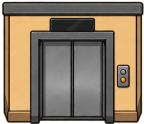
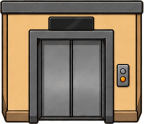
feat(sim): everybody arrives by elevator — hidden arrival queue, one car per newcomer (doors held open from the sim, step out, walk off), postman included; furniture frame sequences equalise each frame's silhouette so the closed elevator no longer jumps; tick moved to tick.ts

diff --git a/packages/sim/src/world.ts b/packages/sim/src/world.ts
@@ -1,7 +1,6 @@
 import type { AgentId } from "@ho/protocol";
 import { type Facing, type Grid, type Point, samePoint } from "./grid.ts";
 import { createRng, hashSeed, type Rng } from "./rng.ts";
-import { advanceStep } from "./steps.ts";
 import { type Anchor, type AnchorKind, type FloorTemplate, gridFor } from "./templates.ts";
 
 export type Activity =
@@ -70,16 +69,27 @@ export type Actor = {
 
 export type Floor = { template: FloorTemplate; grid: Grid; reservations: Map<string, AgentId> };
 
+/**
+ * Everybody enters by elevator: spawned actors wait hidden in the car and step out one at a time. `carAt` is
+ * when the arriving car's doors are fully open (0 while no car is called), `nextAt` when the next car may come.
+ */
+export type Arrivals = { queue: AgentId[]; carAt: number; nextAt: number };
+
 export type World = {
   time: number;
   rng: Rng;
   floors: Map<string, Floor>;
   actors: Map<AgentId, Actor>;
   outbox: SimEvent[];
+  arrivals: Arrivals;
+  /** Proximity animations the simulation holds open, by sprite key (`elevator` while a car is arriving). */
+  held: Set<string>;
 };
 
 export const SPEED_TILES_PER_S = 3;
 export const ELEVATOR_MS = 1500;
+/** Door travel of the elevator (matches the renderer), the pause on the threshold, the gap between cars. */
+export const ELEVATOR_DOORS_MS = 700;
 
 export const createWorld = (seed: string): World => ({
   time: 0,
@@ -87,6 +97,8 @@ export const createWorld = (seed: string): World => ({
   floors: new Map(),
   actors: new Map(),
   outbox: [],
+  arrivals: { queue: [], carAt: 0, nextAt: 0 },
+  held: new Set(),
 });
 
 export function addFloor(world: World, template: FloorTemplate): void {
@@ -139,6 +151,8 @@ export function spawnActor(
       ? { x: 3, y: 10 }
       : (anchorById(floor, "elevator")?.at ?? { x: 3, y: 10 }));
   const at = nearestWalkable(world, floorId, spawn);
+  // Without an explicit place the newcomer arrives by elevator: hidden in the car until it is their turn.
+  const arriving = options.at === undefined;
   const actor: Actor = {
     id,
     kind: options.kind ?? "agent",
@@ -149,7 +163,7 @@ export function spawnActor(
     facing: "s",
     activity: "idle",
     animTime: 0,
-    hidden: false,
+    hidden: arriving,
     steps: [],
     reservation: null,
     work: null,
@@ -163,6 +177,9 @@ export function spawnActor(
     idleUntil: 0,
   };
   world.actors.set(id, actor);
+  if (arriving) {
+    world.arrivals.queue.push(id);
+  }
   return actor;
 }
 
@@ -172,6 +189,7 @@ export function removeActor(world: World, id: AgentId): void {
     release(world, actor);
     world.actors.delete(id);
   }
+  world.arrivals.queue = world.arrivals.queue.filter((queued) => queued !== id);
 }
 
 /** Cells occupied by other actors standing still (walking actors are transient and ignored). */
@@ -231,36 +249,6 @@ export const setSteps = (actor: Actor, steps: Step[]): void => {
   actor.steps = steps;
   actor.animTime = 0;
 };
-
-export function tick(
-  world: World,
-  dtMs: number,
-  onIdle: (world: World, actor: Actor) => void,
-): void {
-  world.time += dtMs;
-  for (const actor of world.actors.values()) {
-    actor.animTime += dtMs;
-    for (const need of NEEDS) {
-      actor.needs[need] = Math.min(1, actor.needs[need] + dtMs / NEED_PERIOD_MS[need]);
-    }
-    if (
-      actor.emotion !== null &&
-      actor.emotion.until !== null &&
-      world.time >= actor.emotion.until
-    ) {
-      actor.emotion = null;
-    }
-    if (actor.steps.length === 0) {
-      if (actor.activity === "walk") {
-        actor.activity = "idle";
-      }
-      if (world.time >= actor.idleUntil) {
-        onIdle(world, actor);
-      }
-    }
-    advanceStep(world, actor, dtMs);
-  }
-}
 
 export const NEED_PERIOD_MS: Record<NeedKind, number> = {
   coffee: 240_000,

diff --git a/scripts/assets-import.ts b/scripts/assets-import.ts
@@ -4,8 +4,10 @@
 //                         [--no-key] [--tolerance 40]
 //
 // `<source.png>` may be a pattern such as "assets/inbox/spa-animate-*.png": the matching files, sorted by the
-// number in their name, become frames f0, f1, … of one animation. Frames of one animation are trimmed to their
-// common bounding box and scaled by one factor, so nothing jitters between frames.
+// number in their name, become frames f0, f1, … of one animation. Furniture frames are each trimmed to their own
+// visible pixels and resampled to one common size: generators redraw a static silhouette a few pixels off from
+// frame to frame, and equalising the silhouettes is what keeps doors and water from jumping. Characters keep
+// their full frame canvas (their silhouette is meant to change).
 //
 // The source is any PNG a generator produced (typically ~1024 px with a transparent background; a flat
 // #FF00FF background is keyed out as a fallback). The converter trims, scales the art to the footprint of the
@@ -228,14 +230,36 @@ await mkdir(dir, { recursive: true });
 const report: string[] = [
   `${files.length > 1 ? `${String(files.length)} files (${files[0] ?? ""} …)` : source}: ${String(first.width)}×${String(first.height)}, ${keyed ? "flat #FF00FF background keyed out" : "transparent as delivered"}, ${String(rawFrames.length)} frame(s)`,
 ];
+// Size of the union crop after scaling: every furniture frame is resampled to exactly this canvas.
+const unionScale = target.width / bounds.w;
+const unionSize = { w: target.width, h: Math.max(1, Math.round(bounds.h * unionScale)) };
 for (const [index, raw] of rawFrames.entries()) {
-  const art = target.trim ? crop(raw, bounds) : raw;
-  const { frame, scale } = fit(art, target);
+  let art = raw;
+  let fitted: { frame: Rgba; scale: number };
+  if (target.trim && rawFrames.length > 1) {
+    const own = opaqueBounds(raw);
+    art = crop(raw, own ?? bounds);
+    fitted = {
+      frame: place(
+        resample(art, unionSize.w, unionSize.h),
+        unionSize.w,
+        unionSize.h,
+        target.anchor,
+      ),
+      scale: unionScale,
+    };
+  } else {
+    art = target.trim ? crop(raw, bounds) : raw;
+    fitted = fit(art, target);
+  }
+  const { frame, scale } = fitted;
   const file = `${dir}/${target.animation}_f${String(index)}.png`;
   await Bun.write(file, encodePng(frame));
-  if (target.trim) {
+  if (target.trim && index === 0) {
     report.push(
-      `  trimmed to the visible object (alpha ≥ ${String(ALPHA_MIN)}): ${String(bounds.w)}×${String(bounds.h)} px at (${String(bounds.x)}, ${String(bounds.y)})`,
+      rawFrames.length > 1
+        ? `  frames trimmed individually and resampled to the common ${String(unionSize.w)}×${String(unionSize.h)} px (silhouette drift removed)`
+        : `  trimmed to the visible object (alpha ≥ ${String(ALPHA_MIN)}): ${String(bounds.w)}×${String(bounds.h)} px at (${String(bounds.x)}, ${String(bounds.y)})`,
     );
   }
   const overhang =

diff --git a/packages/sim/src/tick.ts b/packages/sim/src/tick.ts
@@ -1,0 +1,89 @@
+import { advanceStep } from "./steps.ts";
+import {
+  type Actor,
+  ELEVATOR_DOORS_MS,
+  freeAnchors,
+  NEED_PERIOD_MS,
+  NEEDS,
+  setSteps,
+  walkSteps,
+  type World,
+} from "./world.ts";
+
+/** Pause on the elevator threshold before walking off, and the gap between cars (doors close in between). */
+const STEP_OUT_MS = 400;
+const ARRIVAL_GAP_MS = 2200;
+
+/**
+ * One elevator car per arrival: call it (doors open for ELEVATOR_DOORS_MS), let the first waiting actor step onto
+ * the threshold, pause, then walk off — to their work when it is already assigned, otherwise to a free corridor
+ * spot — so the doors can close before the next car. Proximity keeps the doors open while they stand there.
+ */
+function arrive(world: World): void {
+  const a = world.arrivals;
+  const next = a.queue[0];
+  if (next === undefined || world.time < a.nextAt) {
+    return;
+  }
+  if (a.carAt === 0) {
+    a.carAt = world.time + ELEVATOR_DOORS_MS;
+    world.held.add("elevator");
+    return;
+  }
+  if (world.time < a.carAt) {
+    return;
+  }
+  a.queue.shift();
+  a.carAt = 0;
+  a.nextAt = world.time + ARRIVAL_GAP_MS;
+  world.held.delete("elevator");
+  const actor = world.actors.get(next);
+  if (actor === undefined) {
+    return;
+  }
+  actor.hidden = false;
+  actor.facing = "s";
+  const spot = world.rng.pick(freeAnchors(world, actor.floorId, "wander"))?.at ?? {
+    x: actor.tile.x,
+    y: actor.tile.y + 2,
+  };
+  setSteps(actor, [
+    { kind: "dwell", activity: "idle", facing: "s", until: null, ms: STEP_OUT_MS },
+    ...(actor.steps.length > 0 ? actor.steps : walkSteps(world, actor, actor.floorId, spot)),
+  ]);
+}
+
+export function tick(
+  world: World,
+  dtMs: number,
+  onIdle: (world: World, actor: Actor) => void,
+): void {
+  world.time += dtMs;
+  arrive(world);
+  for (const actor of world.actors.values()) {
+    if (actor.hidden && world.arrivals.queue.includes(actor.id)) {
+      // Still in the elevator car.
+      continue;
+    }
+    actor.animTime += dtMs;
+    for (const need of NEEDS) {
+      actor.needs[need] = Math.min(1, actor.needs[need] + dtMs / NEED_PERIOD_MS[need]);
+    }
+    if (
+      actor.emotion !== null &&
+      actor.emotion.until !== null &&
+      world.time >= actor.emotion.until
+    ) {
+      actor.emotion = null;
+    }
+    if (actor.steps.length === 0) {
+      if (actor.activity === "walk") {
+        actor.activity = "idle";
+      }
+      if (world.time >= actor.idleUntil) {
+        onIdle(world, actor);
+      }
+    }
+    advanceStep(world, actor, dtMs);
+  }
+}

diff --git a/packages/ui/src/office/plan-view.ts b/packages/ui/src/office/plan-view.ts
@@ -127,9 +127,10 @@ export function createPlanView(
       if (view.frames.length > 1) {
         let frame = view.frame;
         if (view.item.playback === "near") {
-          const target = anyoneNear(people, { ...view.item.at, w: view.item.w, h: view.item.h })
-            ? 1
-            : 0;
+          // Held open by the simulation (an elevator car arriving) or by whoever stands within reach.
+          const held = world.held.has(view.item.sprite.slice("furniture/".length));
+          const target =
+            held || anyoneNear(people, { ...view.item.at, w: view.item.w, h: view.item.h }) ? 1 : 0;
           view.amount = approach(view.amount, target, dtMs, NEAR_MS);
           frame = Math.round(view.amount * (view.frames.length - 1));
         } else {

diff --git a/packages/sim/src/mail.ts b/packages/sim/src/mail.ts
@@ -38,10 +38,8 @@ export function deliverMail(
     return false;
   }
   const door = entrance?.at ?? mailbox.at;
-  const postman = spawnActor(world, visitorId, sprite, OFFICE_FLOOR_ID, {
-    kind: "visitor",
-    at: door,
-  });
+  // The postman rides the elevator like everybody else (no explicit place → arrival queue).
+  const postman = spawnActor(world, visitorId, sprite, OFFICE_FLOOR_ID, { kind: "visitor" });
   setSteps(postman, [
     ...walkSteps(world, postman, OFFICE_FLOOR_ID, mailbox.at),
     { kind: "dwell", activity: "drop", facing: mailbox.facing, until: null, ms: DROP_MS },

diff --git a/packages/sim/src/index.ts b/packages/sim/src/index.ts
@@ -9,4 +9,5 @@ export * from "./office-plan.ts";
 export * from "./office-audit.ts";
 export * from "./rng.ts";
 export * from "./templates.ts";
+export * from "./tick.ts";
 export * from "./world.ts";

diff --git a/docs/PLAN.md b/docs/PLAN.md
@@ -231,3 +231,4 @@ Append entries as `- YYYY-MM-DD — <task id or topic> — <outcome> — <follow
 - 2026-09-07 — Second delivery (14 sprites) — The owner regenerated everything with the reference cut-outs and a camera angle matching the base image, one design per room: developer, QA and analyst desks and chairs, boss desk and chair, reception counter, hot tub. Sprite keys are now the delivery file names; `-rotated` marks a desk whose sitter is north of it facing the room (front panel and monitors' backs visible). Plan: QA and analysts have two 5 × 3 desks back to back again (rotated north at row 7, plain south at row 10, seats at rows 6 and 13) instead of `desk-pair`; the reception counter grew to 8 × 3 (its frontal art is ≈4 cells tall) and the receptionist anchor moved to row 25; `hot-tub` art key is `spa`. Every import trimmed cleanly (chairs 36 × 47–54, desks 120–192 wide, tub 120 × 134), 28 sprites in the manifest, 16 keys still stand-ins. `window.__ho.sim` exposes the simulation's intents for tuning sessions. — Follow-ups: chairs are all drawn from the front (a chair seen from behind would show its backrest over the sitter's back); character sets at 2 × 5.
 - 2026-09-07 — Position audit against the reference — Every object, door and stall wall re-measured on a per-cell grid over the base image (six region overlays, eleven zooms). Fixed: doors (boss 12–13, dev sliding 33–38, QA 56–57, analyst 68–69, spa 70–74, elevator 3–8), the toilets/lounge wall (x 20), stall walls (x 1, 5, 10), elevator shaft 6 × 6 and solid, reception counter 8 × 4, bookshelves 4 × 3 at x 17 and 50 (the third was a copier at 42), meeting table 8 × 3 with six chairs, kitchen counter 8 × 3 + fridge 3 × 3, dining table 8 × 2 moved four cells west with six chairs, toilets 2 × 3 at x 3 and 7, sinks one row down, dryer/bin at (11,40), TV 1 × 6 + console, L-sofa as two pieces + coffee table, dartboard, foosball 4 × 6, call tables one row down, grill 4 × 4 + side table, terrace table one row up with six chairs, round table, terrace sofa, spa bench, ashtray; seats moved to where the chairs are painted (developers row 12, south QA/analyst row 14) and a sitter facing south is drawn one cell lower so the desk hides the legs. Added 60 props from the reference as objects (plants with 2-cell art, pictures, windows, aquarium, wall shelf, screen, projector, lamp, radiator, hedge, bushes, bins) with dedicated stand-ins; 113 objects, 39 anchors, audit clean, 2,450 reachable cells. **Animated furniture:** the hot tub loops ten `bubbles` frames at 120 ms (one clock per object, texture swap only on frame change, `static` fallback); `assets:import` takes a numbered file sequence with a shared crop. — Follow-ups: art for the 40 new keys; regenerate the OFFICE-ART table after plan changes.
 - 2026-09-07 — Elevator doors — Five-frame `elevator/open` sequence (closed → open) imported with the shared crop (144 × 124 px); `Furniture.playback: "near"` plays a sequence by proximity: the frame follows an eased 0…1 amount (700 ms full travel) that rises while an actor stands within three cells of the shaft and falls when they leave, so the same frames close the doors in reverse. The stand-in door graphic of the elevator disappears once the sprite exists; doors and the elevator share one proximity/approach helper. — Follow-ups: sim-driven cues (arrival/departure events) if proximity ever looks wrong; monitor/TV `loop` animations.
+- 2026-09-07 — Elevator arrivals and frame drift — Newcomers no longer pop onto the threshold: `spawnActor` without an explicit place queues the actor hidden in the car; `tick` (now in `tick.ts`) calls one car per arrival (doors held open 700 ms via `world.held`, step out, 400 ms pause, walk to assigned work or a free wander spot, 2.2 s gap so the doors close first); the postman uses the same queue; queued actors are skipped by the tick. Frame drift: the closed elevator frame was drawn ≈5 px narrower and 4 px lower than the others, so the common-crop sequence still jumped; furniture sequences now trim each frame to its own silhouette and resample all to one common size (top-edge drift 22 → 5 grey levels; the spa was re-imported the same way). — Follow-ups: none.

diff --git a/docs/OFFICE-ART.md b/docs/OFFICE-ART.md
@@ -30,8 +30,10 @@ production geometry lives in code and every destination must be reachable.
   UI shows a red banner if a layout change breaks a route.
 - **Seats by role.** The boss has the boss office; workers take `dev` desks, reviewers `qa`, clerks `analyst`;
   a full zone overflows into any free desk (`assignWork` in `packages/sim/src/intents.ts`).
-- **Arrivals.** Agents appear at the elevator threshold; the postman comes the same way, drops the mail on the
-  reception counter (`mailbox`, state `empty`/`full`) and a courier carries it to the boss.
+- **Arrivals.** Everybody comes by elevator, one car at a time: the doors open (700 ms), the newcomer steps onto
+  the threshold, pauses, walks off to their desk or a corridor spot, the doors close and the next car follows
+  2.2 s later. The postman arrives the same way, drops the mail beside the reception counter (`mailbox`, state
+  `empty`/`full`) and a courier carries it to the boss.
 - **Routing.** A* with cached clearance and turn costs prefers corridor centres and straight runs (walls and
   furniture cost 4 per step alongside, 1.5 two cells away, 1 further; a turn costs 6). Occupied destinations stay
   reachable so meeting points work.
